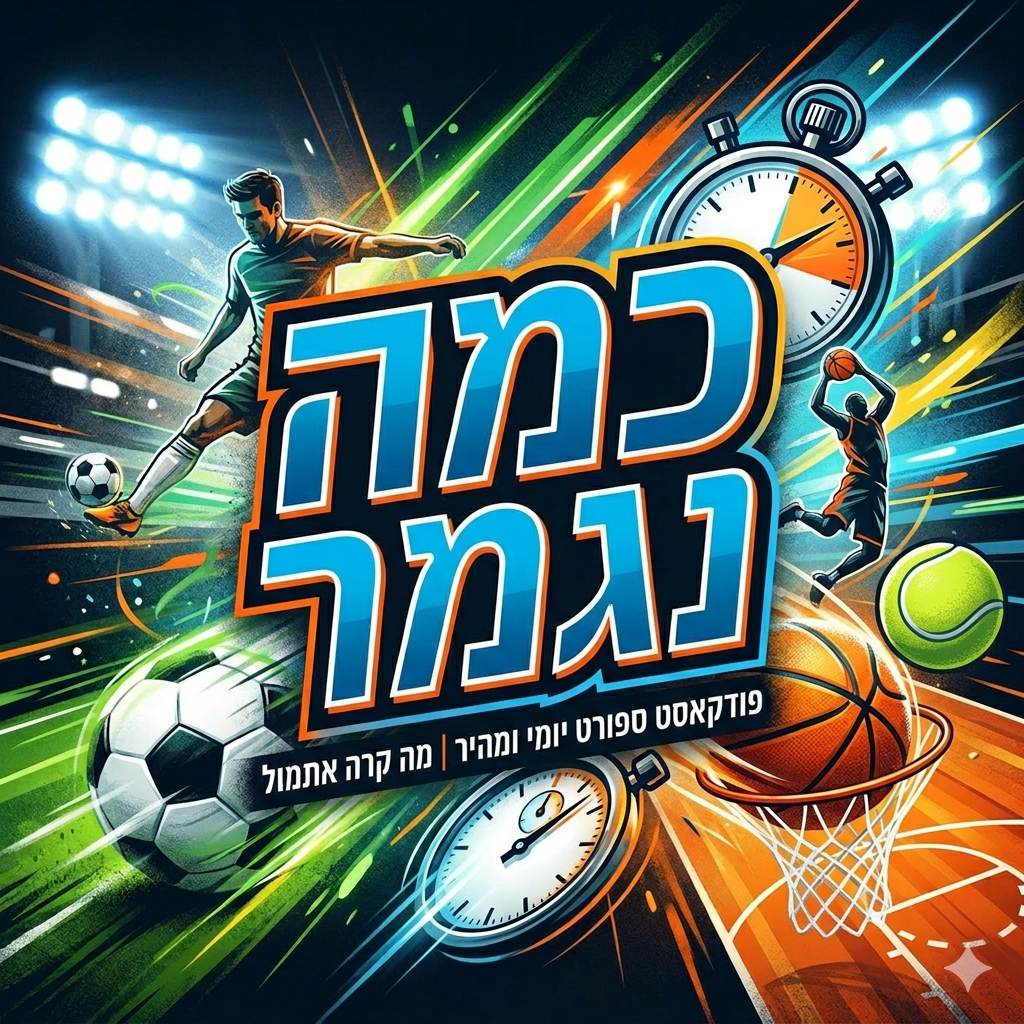
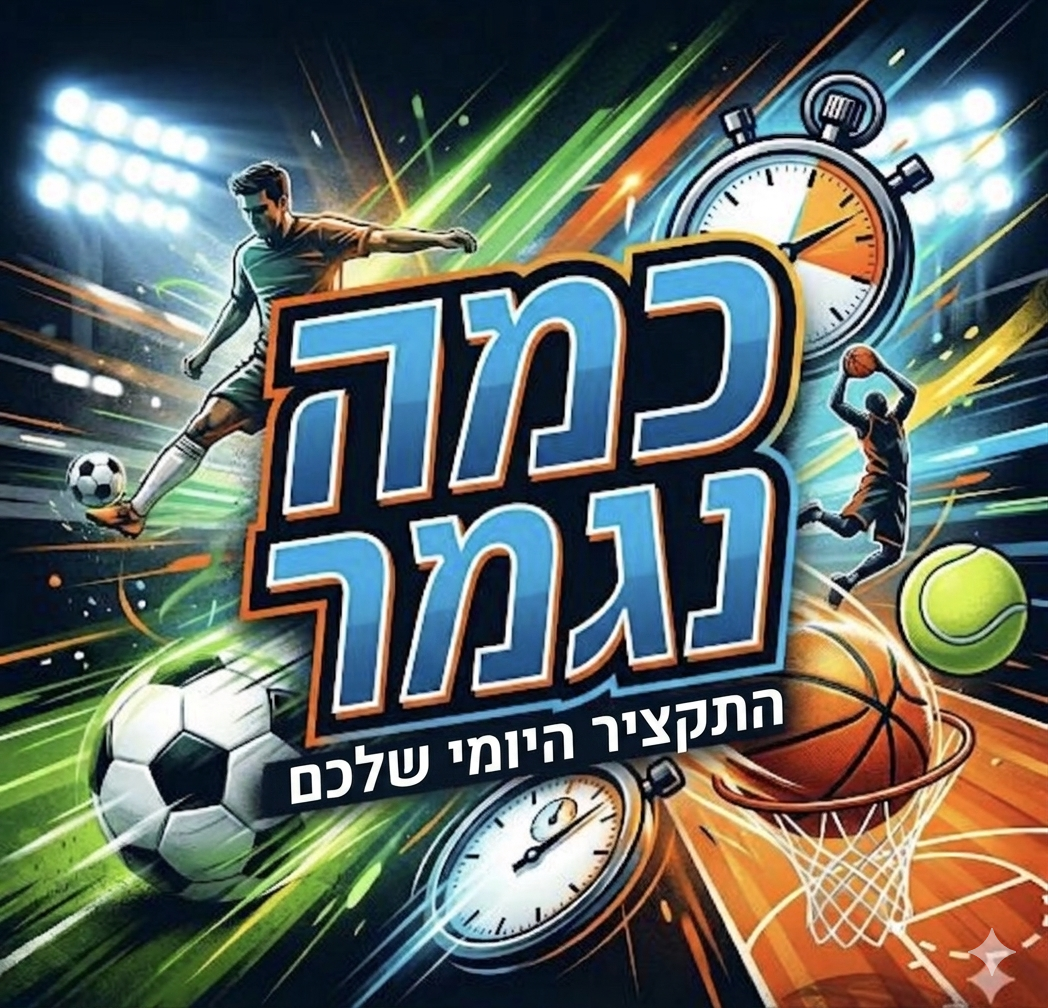
feat: update tagline, cover art, and add Apple Podcasts embed
- Change tagline to "התקציר היומי שלכם"
- Update cover art with new design
- Add Apple Podcasts embed alongside Spotify player
- Update SEO metadata to match new tagline

diff --git a/src/components/player/EpisodePlayer.tsx b/src/components/player/EpisodePlayer.tsx
@@ -1,8 +1,9 @@
 interface EpisodePlayerProps {
-  readonly showId: string;
+  readonly spotifyShowId: string;
+  readonly applePodcastId: string;
 }
 
-export function EpisodePlayer({ showId }: EpisodePlayerProps) {
+export function EpisodePlayer({ spotifyShowId, applePodcastId }: EpisodePlayerProps) {
   return (
     <section aria-labelledby="latest-episode-heading" className="w-full">
       <h2
@@ -11,15 +12,28 @@ export function EpisodePlayer({ showId }: EpisodePlayerProps) {
       >
         הפרק האחרון
       </h2>
-      <iframe
-        title="נגן הפרק האחרון של כמה נגמר?"
-        src={`https://open.spotify.com/embed/show/${showId}?theme=0`}
-        width="100%"
-        height="152"
-        allow="encrypted-media"
-        loading="lazy"
-        className="rounded-xl border-0"
-      />
+      <div className="flex flex-col gap-6">
+        <iframe
+          title="האזינו בספוטיפיי"
+          src={`https://open.spotify.com/embed/show/${spotifyShowId}?theme=0`}
+          width="100%"
+          height="152"
+          allow="encrypted-media"
+          loading="lazy"
+          className="rounded-xl border-0"
+        />
+        <iframe
+          title="האזינו באפל פודקאסטס"
+          src={`https://embed.podcasts.apple.com/il/podcast/%D7%9B%D7%9E%D7%94-%D7%A0%D7%92%D7%9E%D7%A8/${applePodcastId}`}
+          width="100%"
+          height="450"
+          allow="autoplay *; encrypted-media *; fullscreen *; clipboard-write"
+          sandbox="allow-forms allow-popups allow-same-origin allow-scripts allow-storage-access-by-user-activation allow-top-navigation-by-user-activation"
+          loading="lazy"
+          className="rounded-xl border-0"
+          style={{ maxWidth: "660px" }}
+        />
+      </div>
     </section>
   );
 }

diff --git a/src/app/layout.tsx b/src/app/layout.tsx
@@ -10,10 +10,10 @@ const heebo = Heebo({
 
 export const metadata: Metadata = {
   title: "כמה נגמר? | פודקאסט ספורט יומי",
-  description: "פודקאסט ספורט יומי ומהיר | מה קרה אתמול בעולם הספורט - בארץ ובחו״ל",
+  description: "כמה נגמר? - התקציר היומי שלכם",
   openGraph: {
     title: "כמה נגמר? | פודקאסט ספורט יומי",
-    description: "פודקאסט ספורט יומי ומהיר | מה קרה אתמול בעולם הספורט - בארץ ובחו״ל",
+    description: "כמה נגמר? - התקציר היומי שלכם",
     images: [{ url: "/cover.png", width: 1200, height: 1200, alt: "כמה נגמר? פודקאסט" }],
     type: "website",
     locale: "he_IL",
@@ -21,7 +21,7 @@ export const metadata: Metadata = {
   twitter: {
     card: "summary_large_image",
     title: "כמה נגמר? | פודקאסט ספורט יומי",
-    description: "פודקאסט ספורט יומי ומהיר | מה קרה אתמול",
+    description: "כמה נגמר? - התקציר היומי שלכם",
     images: ["/cover.png"],
   },
 };

diff --git a/src/app/page.tsx b/src/app/page.tsx
@@ -5,6 +5,7 @@ import { EpisodePlayer } from "@/components/player/EpisodePlayer";
 const spotifyShowUrl = process.env.NEXT_PUBLIC_SPOTIFY_SHOW_URL ?? "#";
 const spotifyShowId = process.env.NEXT_PUBLIC_SPOTIFY_SHOW_ID ?? "";
 const applePodcastUrl = process.env.NEXT_PUBLIC_APPLE_PODCAST_URL ?? "#";
+const applePodcastId = process.env.NEXT_PUBLIC_APPLE_PODCAST_ID ?? "id1895382563";
 
 export default function Home() {
   const year = new Date().getFullYear();
@@ -14,7 +15,7 @@ export default function Home() {
       <main className="flex w-full max-w-3xl flex-col items-center gap-2">
         <Hero spotifyUrl={spotifyShowUrl} applePodcastUrl={applePodcastUrl} />
         <Divider />
-        <EpisodePlayer showId={spotifyShowId} />
+        <EpisodePlayer spotifyShowId={spotifyShowId} applePodcastId={applePodcastId} />
       </main>
       <footer className="mt-auto pt-12 text-center text-sm text-text-muted">
         כמה נגמר? {year}

diff --git a/src/components/hero/Hero.tsx b/src/components/hero/Hero.tsx
@@ -28,7 +28,7 @@ export function Hero({ spotifyUrl, applePodcastUrl }: HeroProps) {
           כמה נגמר?
         </h1>
         <p className="text-[clamp(0.875rem,0.8rem+0.3vw,1.125rem)] text-text-muted">
-          פודקאסט ספורט יומי ומהיר | מה קרה אתמול
+          התקציר היומי שלכם
         </p>
         <div className="flex gap-3">
           <PlatformButton
